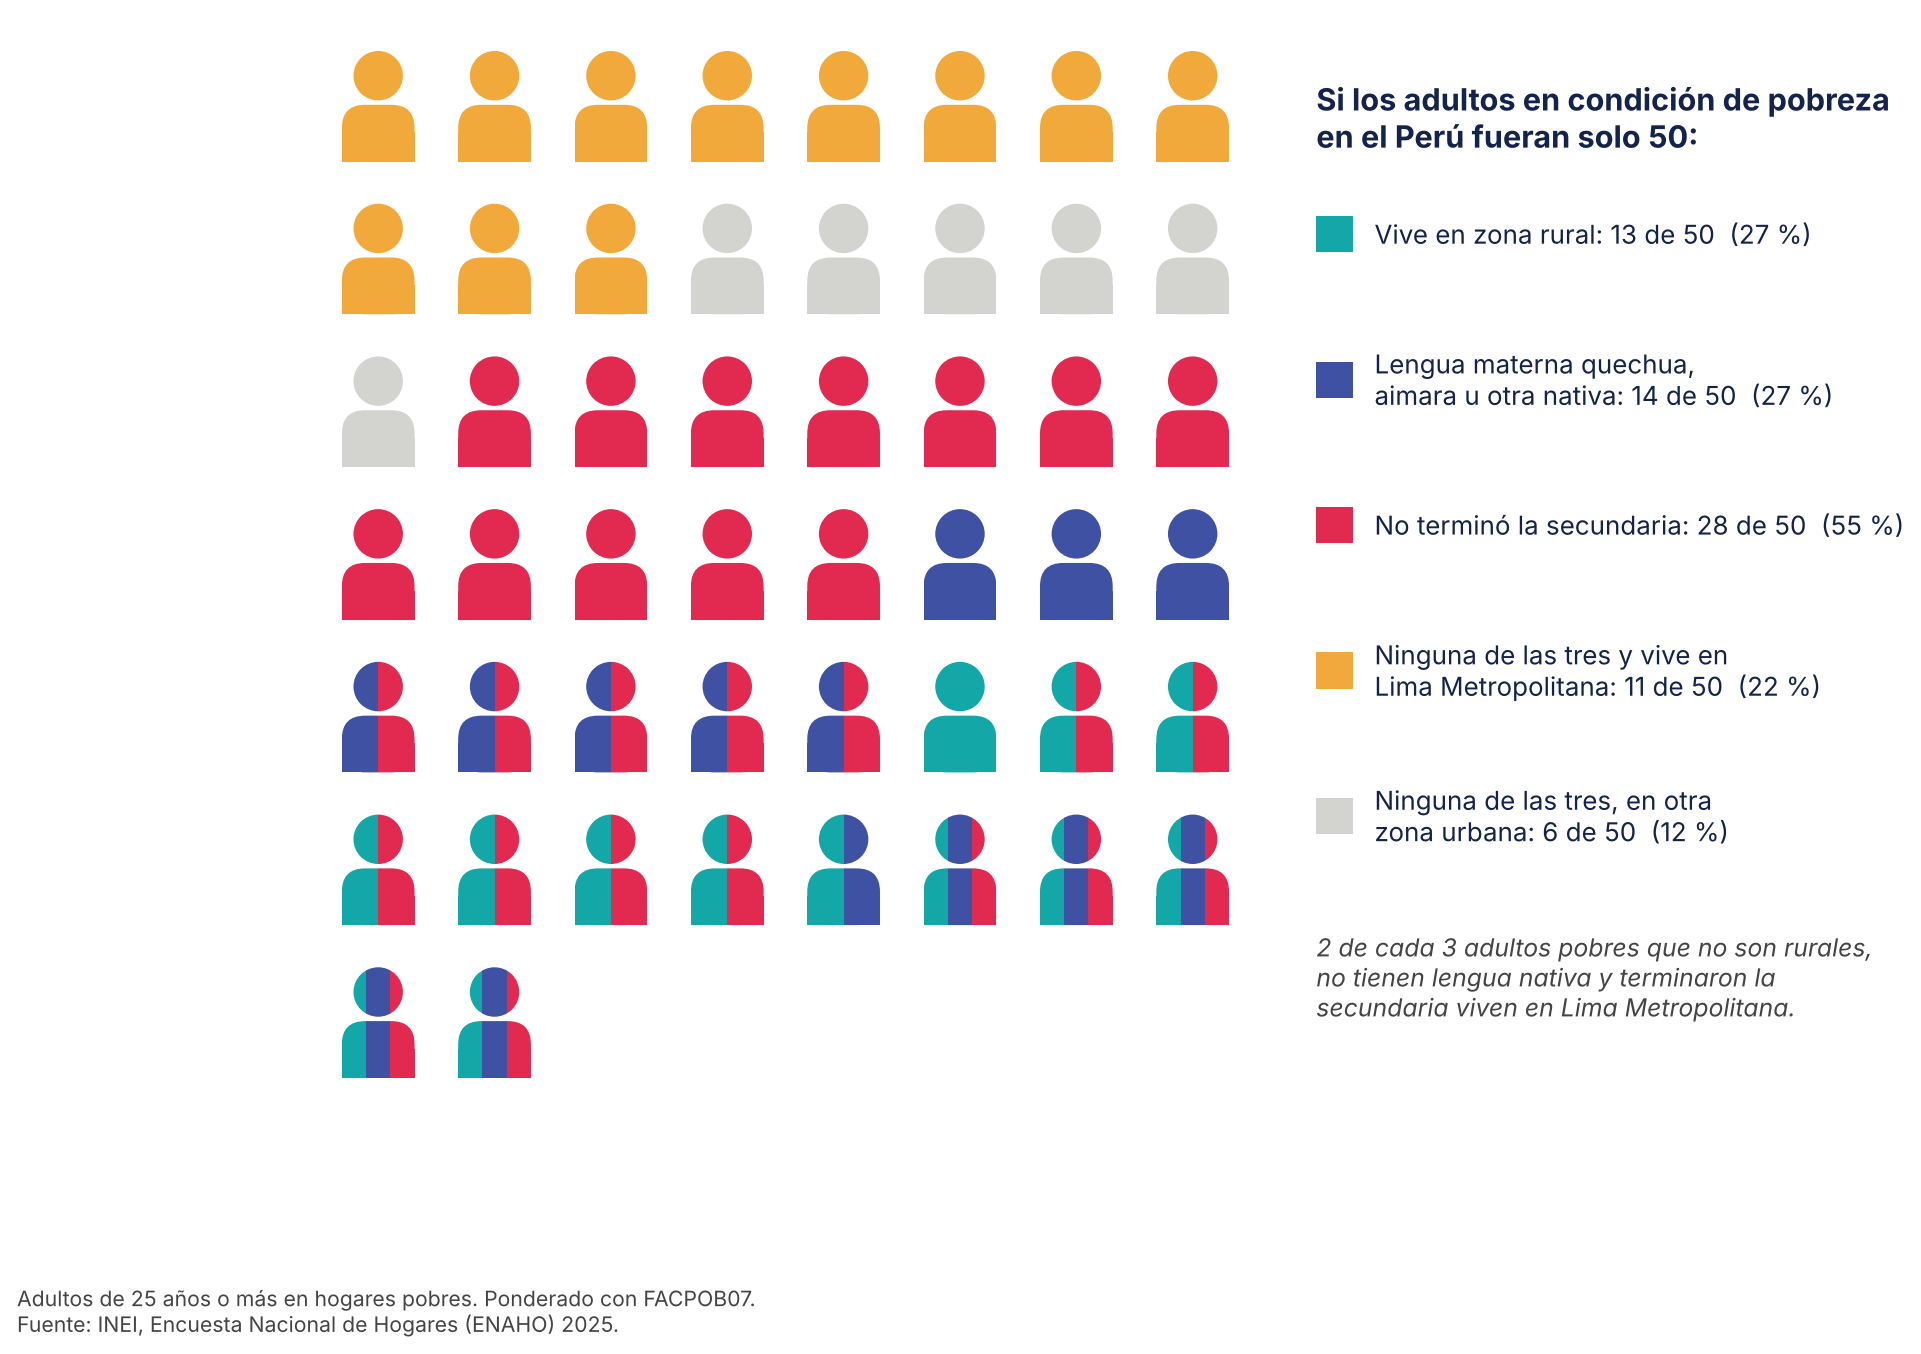
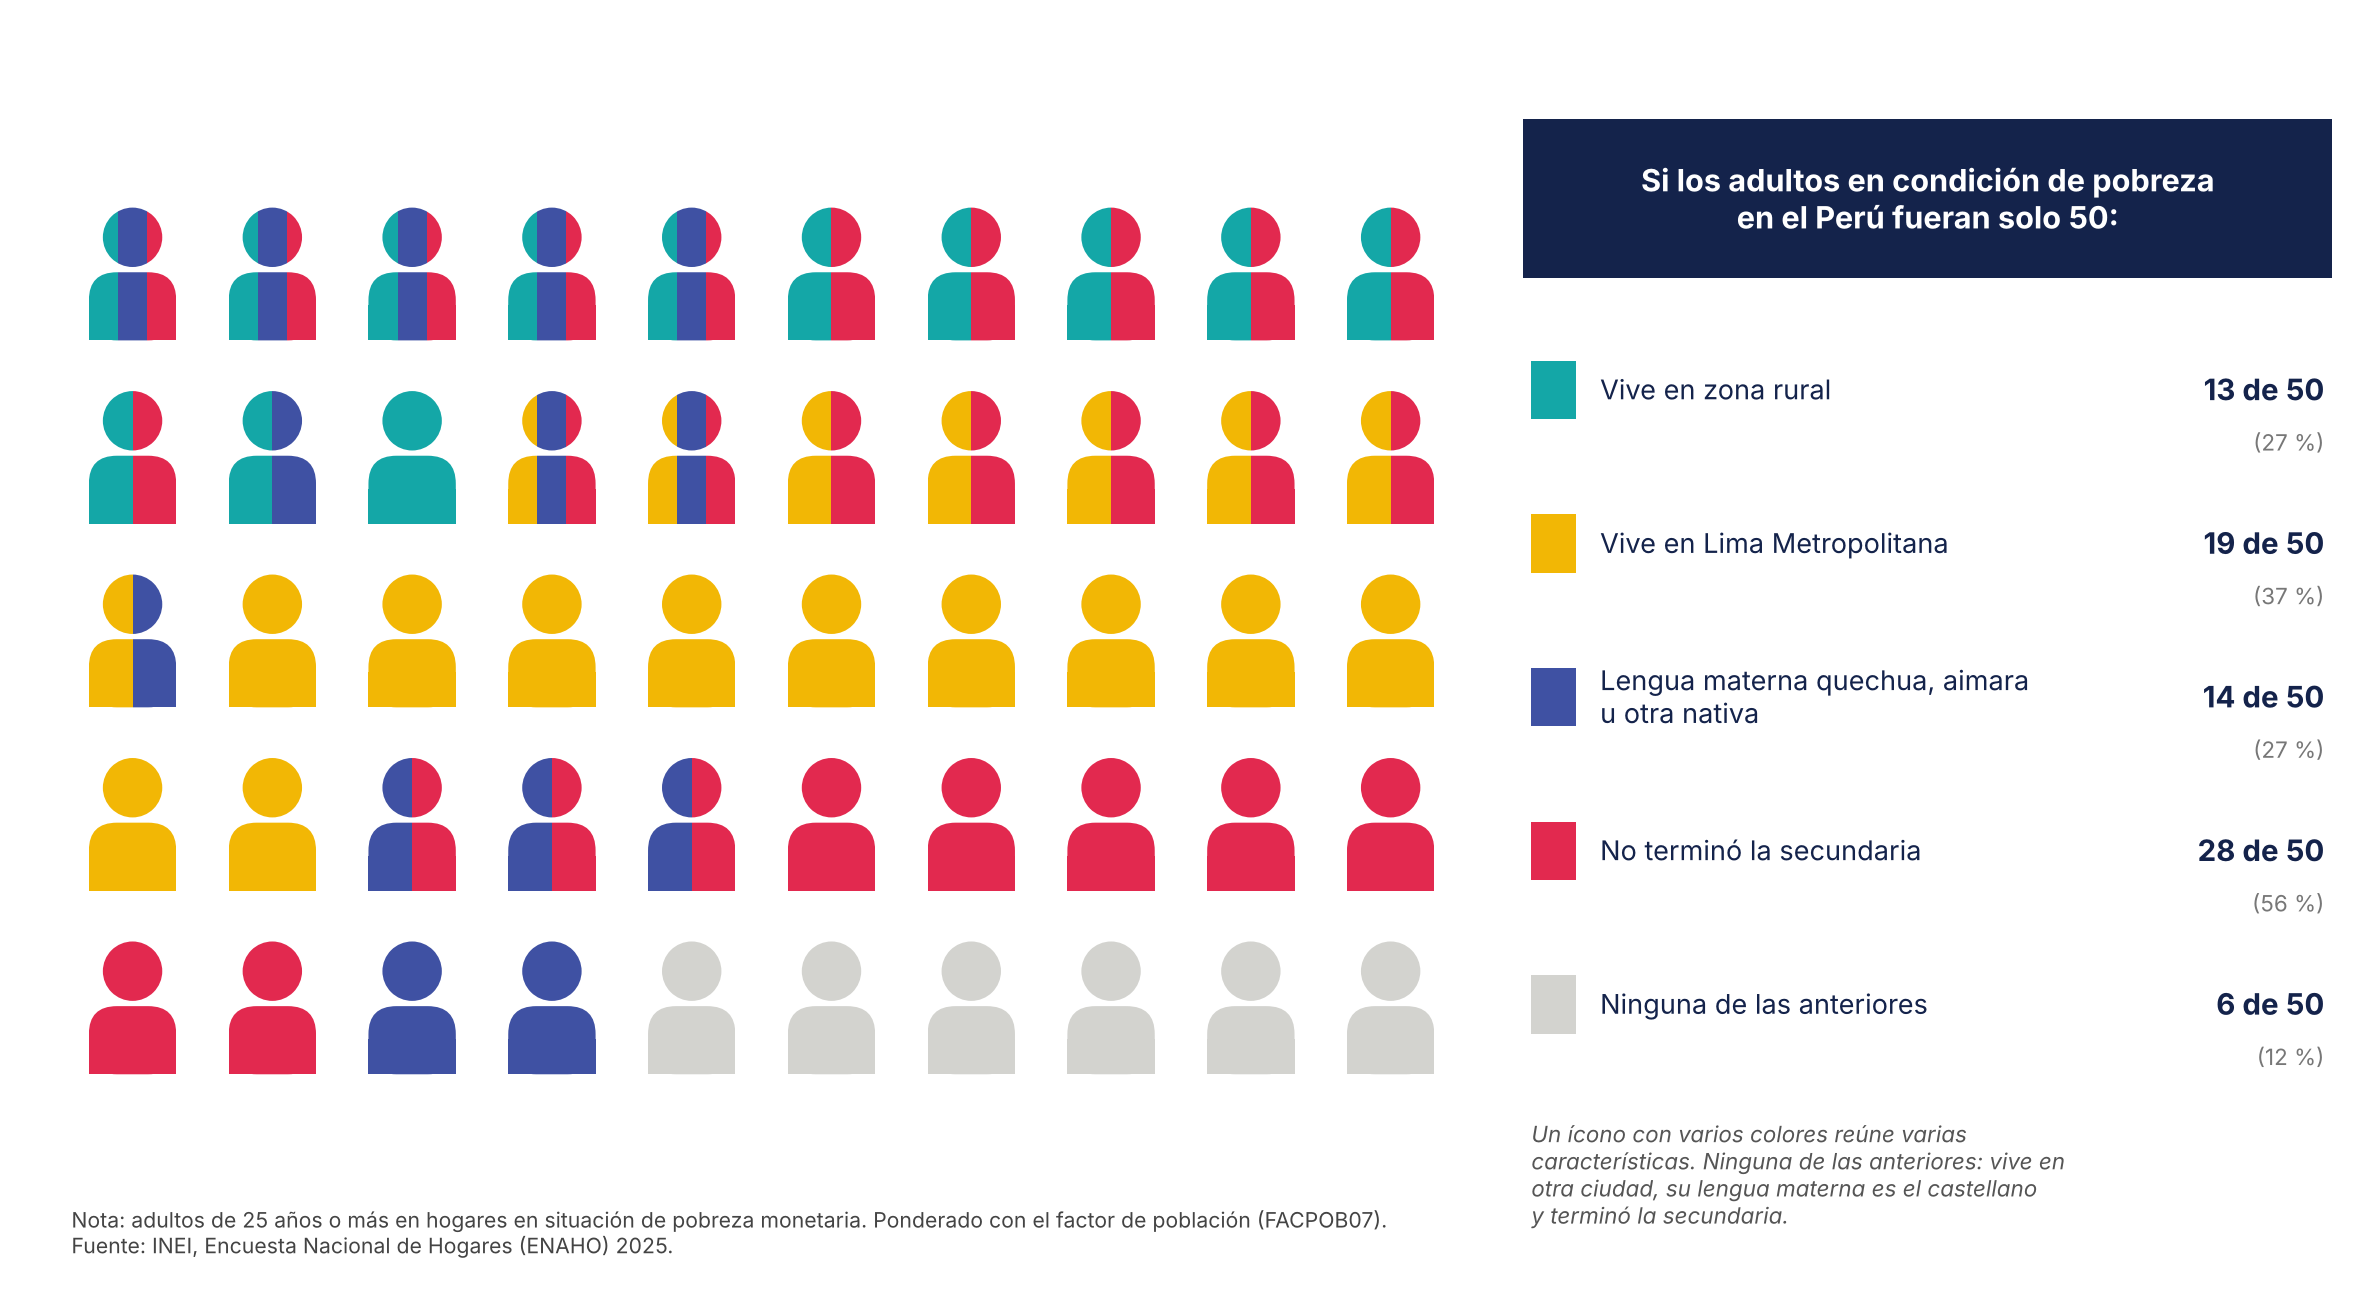
Gráfico de íconos: Lima Metropolitana como cuarta característica, grises al final
Claude-Session: https://claude.ai/code/session_01UnFogaSF2Knum9wnemTp8Q

diff --git a/iconos_adultos_pobres.py b/iconos_adultos_pobres.py
@@ -1,87 +1,133 @@
 """
-Borrador del gráfico de íconos "La pobreza en adultos en el Perú" (2025), con los
-grises ("ninguna de las tres") separados en Lima Metropolitana / resto urbano.
+Gráfico de íconos "La pobreza en adultos en el Perú" (2025): si los adultos pobres
+fueran 50, cuántos viven en zona rural o en Lima Metropolitana, tienen lengua
+materna nativa y no terminaron la secundaria (y sus combinaciones).
 
-Cifras: pobreza_adultos_2025.py (adultos pobres de 25+ años, FACTOR07 = FACPOB07).
+Cifras: adultos de 25+ años en hogares pobres, ponderados con FACTOR07 (= FACPOB07),
+calculadas con pobreza_adultos_2025.py.
 Uso:    python iconos_adultos_pobres.py
 """
 
 from pathlib import Path
 
 import matplotlib.pyplot as plt
+import numpy as np
 from matplotlib.patches import Circle, FancyBboxPatch, Rectangle
 
+import pobreza_adultos_2025 as base
+
 SALIDA = Path(__file__).resolve().parent / "resultados"
+PESO = "factor07"
 
-TEAL, AZUL, ROJO = "#14A7A7", "#3F51A3", "#E2294F"
-GRIS, LIMA = "#D3D3CF", "#F2A93B"
+TEAL, AMARILLO, AZUL, ROJO, GRIS = "#14A7A7", "#F2B705", "#3F51A3", "#E2294F", "#D3D3CF"
+TINTA = "#14234B"
 
-# (colores de franjas, cantidad) en el orden del gráfico original
-GRUPOS = [
-    ([LIMA], 11),               # ninguna de las tres, Lima Metropolitana
-    ([GRIS], 6),                # ninguna de las tres, resto urbano
-    ([ROJO], 12),               # solo sin secundaria
-    ([AZUL], 3),                # solo lengua nativa
-    ([AZUL, ROJO], 5),          # nativa + sin secundaria
-    ([TEAL], 1),                # solo rural
-    ([TEAL, ROJO], 6),          # rural + sin secundaria
-    ([TEAL, AZUL], 1),          # rural + nativa
-    ([TEAL, AZUL, ROJO], 5),    # las tres
-]
-
-LEYENDA = [
-    (TEAL, "Vive en zona rural: ", "13 de 50", "(27 %)"),
-    (AZUL, "Lengua materna quechua,\naimara u otra nativa: ", "14 de 50", "(27 %)"),
-    (ROJO, "No terminó la secundaria: ", "28 de 50", "(55 %)"),
-    (LIMA, "Ninguna de las tres y vive en\nLima Metropolitana: ", "11 de 50", "(22 %)"),
-    (GRIS, "Ninguna de las tres, en otra\nzona urbana: ", "6 de 50", "(12 %)"),
+# Orden de los íconos: rurales, Lima, otras ciudades y al final los grises.
+# Cada clave: (rural, lima, nativa, sin_secundaria)
+ORDEN = [
+    (True, False, True, True), (True, False, False, True), (True, False, True, False),
+    (True, False, False, False),
+    (False, True, True, True), (False, True, False, True), (False, True, True, False),
+    (False, True, False, False),
+    (False, False, True, True), (False, False, False, True), (False, False, True, False),
+    (False, False, False, False),
 ]
 
 
-def icono(ax, x, y, colores, s=1.0):
-    """Persona de ancho s, con franjas verticales de colores."""
-    n = len(colores)
-    for i, c in enumerate(colores):
+def colores(clave):
+    rural, lima, nativa, sin_sec = clave
+    c = [col for activo, col in [(rural, TEAL), (lima, AMARILLO), (nativa, AZUL), (sin_sec, ROJO)]
+         if activo]
+    return c or [GRIS]
+
+
+def icono(ax, x, y, cols, s=1.0):
+    """Persona de ancho s, con una franja vertical por color."""
+    n = len(cols)
+    for i, c in enumerate(cols):
         clip = Rectangle((x + i * s / n, y - 0.1), s / n, 2 * s, transform=ax.transData)
-        for forma in (Circle((x + s / 2, y + 1.18 * s), 0.34 * s, color=c, lw=0),
-                      FancyBboxPatch((x, y), s, 0.78 * s, color=c, lw=0,
+        for forma in (Circle((x + s / 2, y + 1.18 * s), 0.34 * s),
+                      FancyBboxPatch((x, y), s, 0.78 * s,
                                      boxstyle=f"round,pad=0,rounding_size={0.32 * s}"),
-                      Rectangle((x, y), s, 0.4 * s, color=c, lw=0)):
+                      Rectangle((x, y), s, 0.4 * s)):
+            forma.set(color=c, lw=0)
             ax.add_patch(forma)
             forma.set_clip_path(clip)
 
 
+def calcular():
+    d = base.cargar()
+    x = d[(d.pobreza < 3) & (d.p208a >= 25)].copy()
+    x["lima"] = x.dominio == 8
+    claves = ["rural", "lima", "nativa", "sin_secundaria"]
+    w = x.groupby(claves)[PESO].sum().reindex(ORDEN, fill_value=0)
+    pct = 100 * w / w.sum()
+    cuenta = base.de_50(pct.reset_index(drop=True))
+    combos = dict(zip(ORDEN, cuenta))
+    totales = {}
+    for i, c in enumerate(claves):
+        totales[c] = (sum(n for k, n in combos.items() if k[i]),
+                      100 * np.average(x[c], weights=x[PESO]))
+    totales["ninguna"] = (combos[(False, False, False, False)], pct[(False, False, False, False)])
+    return combos, totales
+
+
 def main():
     SALIDA.mkdir(exist_ok=True)
-    fig, ax = plt.subplots(figsize=(13, 9))
-    ax.set_xlim(0, 21)
-    ax.set_ylim(-0.6, 15.6)
+    combos, tot = calcular()
+
+    fig = plt.figure(figsize=(14, 7.6), facecolor="white")
+    ax = fig.add_axes([0.03, 0.1, 0.58, 0.82])
+    ax.set_xlim(-0.2, 15.6)
+    ax.set_ylim(-0.3, 10.4)
     ax.set_aspect("equal")
     ax.axis("off")
 
     k = 0
-    for colores, n in GRUPOS:
-        for _ in range(n):
-            fila, col = divmod(k, 8)
-            icono(ax, col * 1.6, 13.6 - fila * 2.1, colores)
+    for clave in ORDEN:
+        for _ in range(combos[clave]):
+            fila, col = divmod(k, 10)
+            icono(ax, col * 1.6, 8.4 - fila * 2.1, colores(clave))
             k += 1
 
-    x0, y = 13.4, 12.6
-    ax.text(x0, y + 1.6, "Si los adultos en condición de pobreza\nen el Perú fueran solo 50:",
-            fontsize=13, weight="bold", color="#14234B", va="center")
-    for color, texto, cifra, pct in LEYENDA:
-        ax.add_patch(Rectangle((x0, y - 0.25), 0.5, 0.5, color=color, lw=0))
-        ax.text(x0 + 0.8, y, texto + cifra + "  " + pct, fontsize=11, color="#14234B", va="center")
-        y -= 2.0
-    ax.text(x0, y + 0.4,
-            "2 de cada 3 adultos pobres que no son rurales,\nno tienen lengua nativa y terminaron la\n"
-            "secundaria viven en Lima Metropolitana.",
-            fontsize=10.5, style="italic", color="#444", va="top")
+    # Leyenda
+    lg = fig.add_axes([0.64, 0.1, 0.34, 0.82])
+    lg.set_xlim(0, 10)
+    lg.set_ylim(0, 10)
+    lg.axis("off")
+    lg.add_patch(Rectangle((0, 8.35), 10, 1.5, color=TINTA, lw=0))
+    lg.text(5, 9.1, "Si los adultos en condición de pobreza\nen el Perú fueran solo 50:",
+            ha="center", va="center", fontsize=13, color="white", weight="bold")
+    items = [
+        (TEAL, "Vive en zona rural", tot["rural"]),
+        (AMARILLO, "Vive en Lima Metropolitana", tot["lima"]),
+        (AZUL, "Lengua materna quechua, aimara\nu otra nativa", tot["nativa"]),
+        (ROJO, "No terminó la secundaria", tot["sin_secundaria"]),
+        (GRIS, "Ninguna de las anteriores", tot["ninguna"]),
+    ]
+    y = 7.3
+    for color, texto, (n, pct) in items:
+        lg.add_patch(Rectangle((0.1, y - 0.28), 0.55, 0.55, color=color, lw=0))
+        lg.text(0.95, y, texto, va="center", fontsize=11.5, color=TINTA)
+        lg.text(9.9, y, f"{n} de 50", va="center", ha="right", fontsize=12.5, color=TINTA,
+                weight="bold")
+        lg.text(9.9, y - 0.5, f"({pct:.0f} %)", va="center", ha="right", fontsize=9.5,
+                color="#777")
+        y -= 1.45
+    lg.text(0.1, y + 0.35,
+            "Un ícono con varios colores reúne varias\ncaracterísticas. Ninguna de las anteriores: "
+            "vive en\notra ciudad, su lengua materna es el castellano\ny terminó la secundaria.",
+            va="top", fontsize=9.5, color="#555", style="italic")
 
-    fig.text(0.02, 0.02, "Adultos de 25 años o más en hogares pobres. Ponderado con FACPOB07.\n"
-             "Fuente: INEI, Encuesta Nacional de Hogares (ENAHO) 2025.", fontsize=9, color="#444")
-    fig.savefig(SALIDA / "iconos_adultos_pobres_2025.png", dpi=170, bbox_inches="tight",
-                facecolor="white")
+    fig.text(0.03, 0.03, "Nota: adultos de 25 años o más en hogares en situación de pobreza "
+             "monetaria. Ponderado con el factor de población (FACPOB07).\n"
+             "Fuente: INEI, Encuesta Nacional de Hogares (ENAHO) 2025.",
+             fontsize=9, color="#444")
+    fig.savefig(SALIDA / "iconos_adultos_pobres_2025.png", dpi=170, facecolor="white")
+
+    for clave in ORDEN:
+        print(clave, combos[clave])
+    print({k: (n, round(p, 1)) for k, (n, p) in tot.items()})
 
 
 if __name__ == "__main__":
